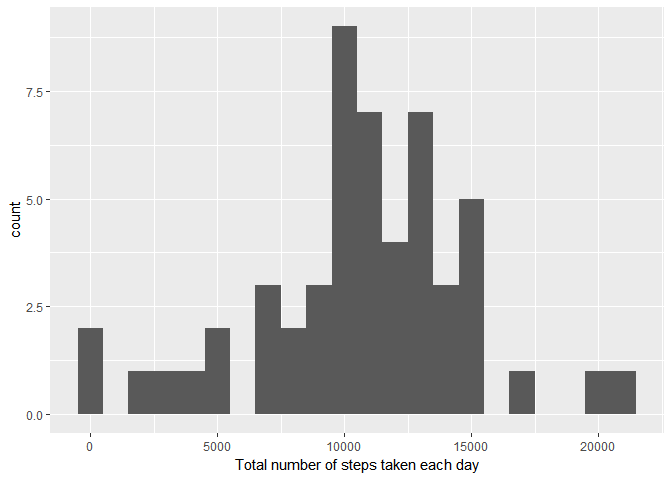
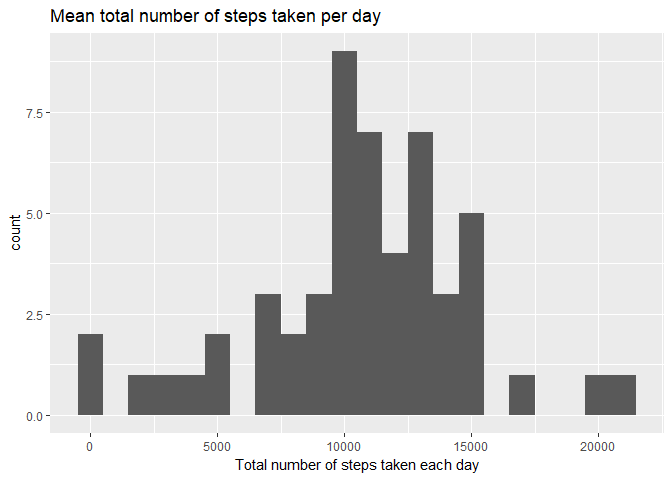
Final version!
Final commit..

diff --git a/Project1.html b/Project1.html
@@ -122,6 +122,8 @@ $(document).ready(function () {
 </div>
 
 
+<div id="michel-racine" class="section level1">
+<h1>Michel Racine</h1>
 <pre class="r"><code>library(&quot;ggplot2&quot;)
 library(dplyr)</code></pre>
 <pre><code>## 
@@ -162,8 +164,8 @@ filtered_data &lt;- na.omit(data)</code></pre>
 mean_steps &lt;- mean(total_steps_per_day$steps)
 median_steps &lt;- median(total_steps_per_day$steps)
 
-qplot(total_steps_per_day$steps, binwidth=1000, xlab=&quot;Total number of steps taken each day&quot;)</code></pre>
[1 lines of base64/hex data omitted]
+qplot(total_steps_per_day$steps, binwidth=1000, xlab=&quot;Total number of steps taken each day&quot;, main=&quot;Mean total number of steps taken per day&quot;)</code></pre>
[1 lines of base64/hex data omitted]
 <p>The mean of the of the total number of steps is 10766.<br />
 The median of the of the total number of steps is 10765.</p>
 </div>
@@ -174,7 +176,7 @@ The median of the of the total number of steps is 10765.</p>
 
 plot(steps_per_interval$interval, steps_per_interval$steps, type=&quot;l&quot;, xlab=&quot;Interval&quot;, 
      ylab=&quot;Average number of steps&quot;)</code></pre>
[2 lines of base64/hex data omitted]
 <pre class="r"><code>Max_steps &lt;- max(steps_per_interval$steps)
 Max_interval &lt;- steps_per_interval[steps_per_interval$steps == Max_steps,]$interval</code></pre>
 <p>The interval 835 on average contains the maximum number of steps, which is 206.</p>
@@ -192,8 +194,8 @@ total_steps_per_day.i &lt;- aggregate(steps ~ date, data.i, sum)
 mean_steps.i &lt;- mean(total_steps_per_day.i$steps)
 median_steps.i &lt;- median(total_steps_per_day.i$steps)
 
-qplot(total_steps_per_day.i$steps, binwidth=1000, xlab=&quot;Total number of steps taken each day - imputing missing values with mean of 5-minute intervals&quot;)</code></pre>
[1 lines of base64/hex data omitted]
+qplot(total_steps_per_day.i$steps, binwidth=1000, xlab=&quot;Number of steps per day&quot;, main=&quot;Total number of steps taken each day - imputing missing values with mean of 5-minute intervals&quot;)</code></pre>
[1 lines of base64/hex data omitted]
 </div>
 </div>
 <div id="are-there-differences-in-activity-patterns-between-weekdays-and-weekends" class="section level2">
@@ -201,6 +203,7 @@ qplot(total_steps_per_day.i$steps, binwidth=1000, xlab=&quot;Total number of ste
 <p>data.i<span class="math inline">\(weekday &lt;- ifelse(is.weekend(data.i\)</span>date), “Weekend”, “Weekday”)</p>
 <p>steps_per_interval.i &lt;- aggregate(steps ~ interval + weekday, data.i, mean)</p>
 <p>xyplot(steps_per_interval.i<span class="math inline">\(steps ~ steps_per_interval.i\)</span>interval|steps_per_interval.i$weekday, main=“Average Steps per Day by Interval”,xlab=“Interval”, ylab=“Steps”,layout=c(1,2), type=“l”)</p>
+</div>
 </div>
 
 

diff --git a/Project1.md b/Project1.md
@@ -4,7 +4,7 @@ output:
   html_document:
     keep_md: true
 ---
-
+# Michel Racine
 
 ```r
 library("ggplot2")
@@ -83,7 +83,7 @@ total_steps_per_day <- aggregate(steps ~ date, data, sum)
 mean_steps <- mean(total_steps_per_day$steps)
 median_steps <- median(total_steps_per_day$steps)
 
-qplot(total_steps_per_day$steps, binwidth=1000, xlab="Total number of steps taken each day")
+qplot(total_steps_per_day$steps, binwidth=1000, xlab="Total number of steps taken each day", main="Mean total number of steps taken per day")
 ```
 
 ![](Project1_files/figure-html/unnamed-chunk-3-1.png)<!-- -->
@@ -123,7 +123,7 @@ total_steps_per_day.i <- aggregate(steps ~ date, data.i, sum)
 mean_steps.i <- mean(total_steps_per_day.i$steps)
 median_steps.i <- median(total_steps_per_day.i$steps)
 
-qplot(total_steps_per_day.i$steps, binwidth=1000, xlab="Total number of steps taken each day - imputing missing values with mean of 5-minute intervals")
+qplot(total_steps_per_day.i$steps, binwidth=1000, xlab="Number of steps per day", main="Total number of steps taken each day - imputing missing values with mean of 5-minute intervals")
 ```
 
 ![](Project1_files/figure-html/unnamed-chunk-5-1.png)<!-- -->
